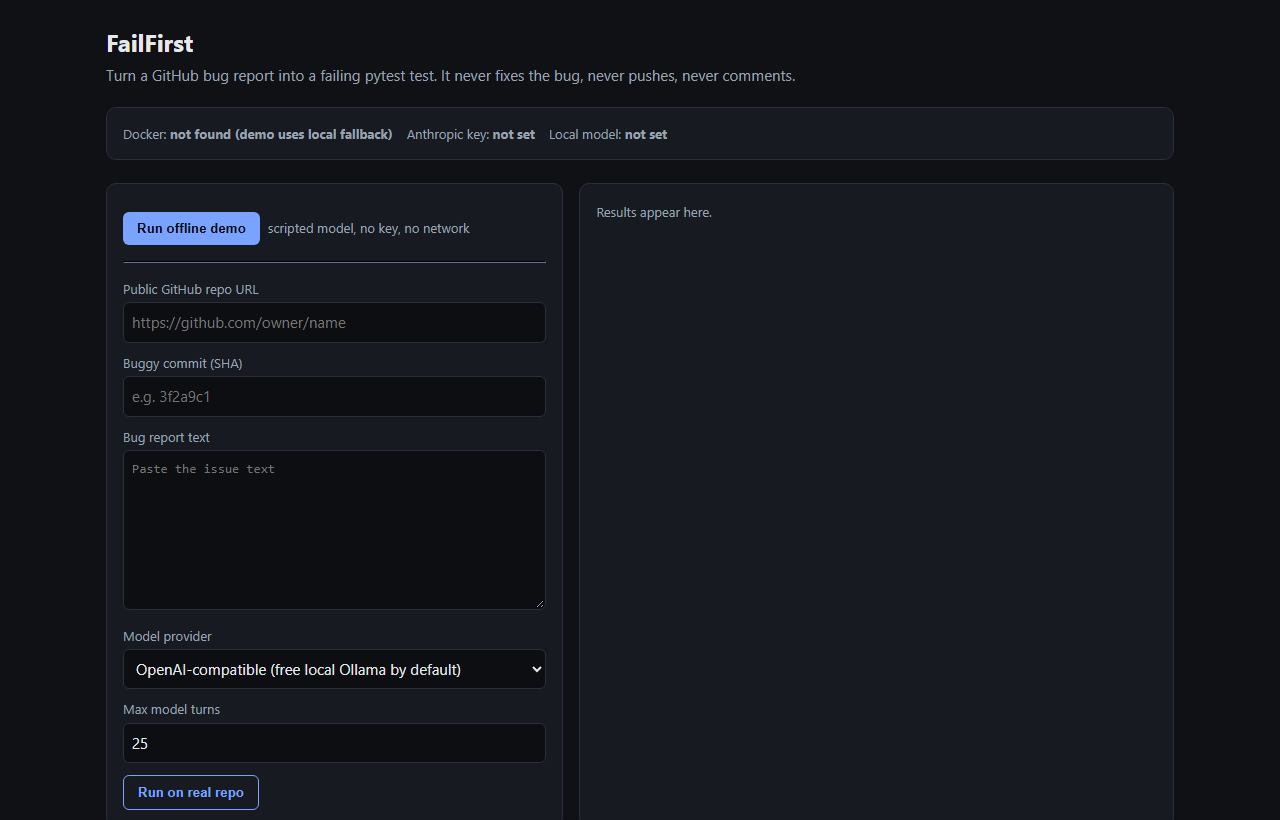
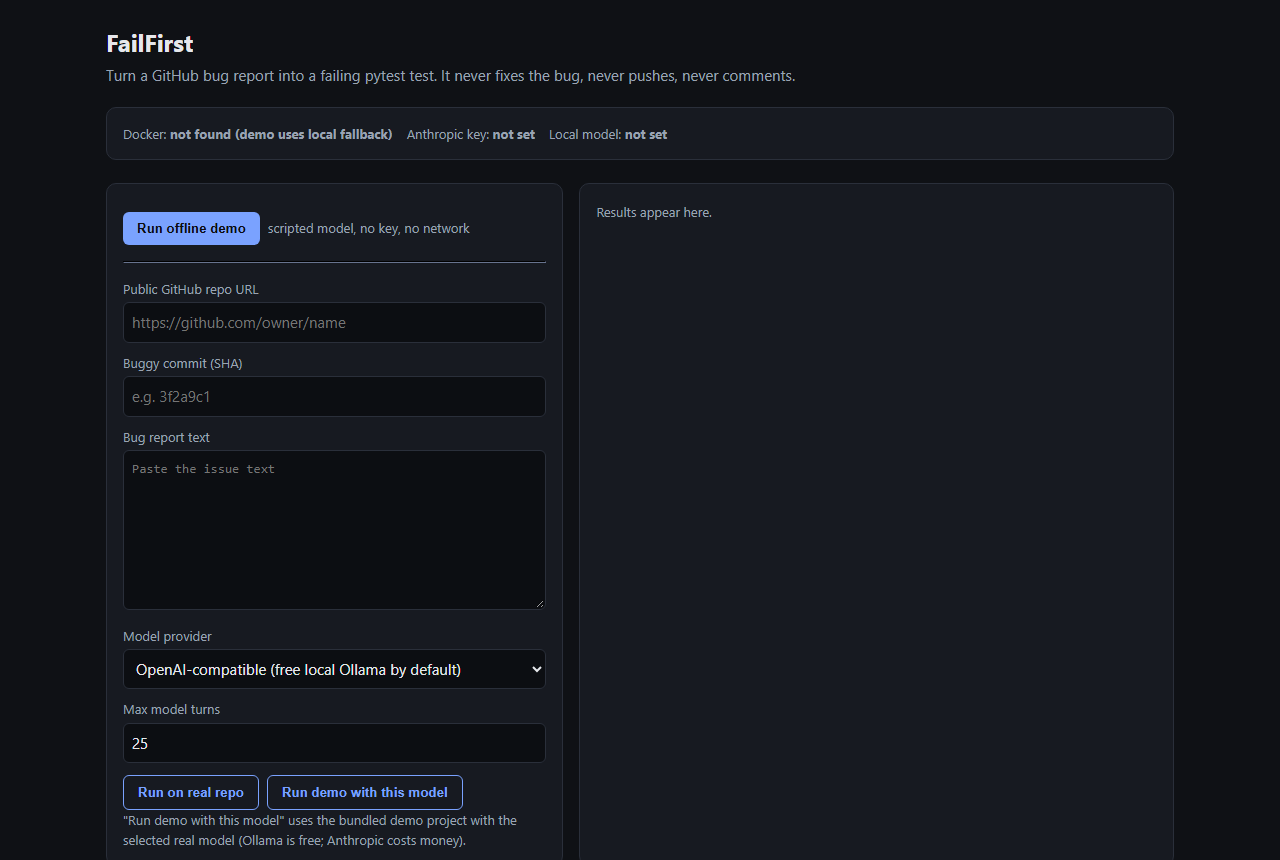
Let the demo run with a real model and clarify provider errors
failfirst demo --provider openai-compatible|anthropic runs the bundled project with a
real model (UI button too). Never leave docker exec waiting on stdin. Clearer hint
when the local model server is not running. Wrap long step-log lines.

diff --git a/failfirst/ui.py b/failfirst/ui.py
@@ -27,7 +27,7 @@ button.alt{background:transparent;color:var(--acc);border:1px solid var(--acc)}b
 .badge{display:inline-block;padding:3px 10px;border-radius:99px;font-weight:700;font-size:13px}
 .REPRODUCED{background:#123d2b;color:var(--ok)}.NOT_REPRODUCED{background:#43181b;color:var(--bad)}.NEEDS_INFO{background:#45391a;color:var(--warn)}
 pre{background:#0c0e12;border:1px solid var(--line);border-radius:6px;padding:10px;overflow:auto;font-size:12.5px;max-height:340px}
-.dim{color:var(--dim);font-size:13px}.status span{margin-right:14px}ol{padding-left:20px}li{margin:4px 0}
+code{word-break:break-all}.dim{color:var(--dim);font-size:13px}.status span{margin-right:14px}ol{padding-left:20px}li{margin:4px 0}
 </style></head><body><main>
 <h1>FailFirst</h1><p class="sub">Turn a GitHub bug report into a failing pytest test. It never fixes the bug, never pushes, never comments.</p>
 <div class="status dim card" id="status">Checking setup...</div><br>
@@ -39,7 +39,8 @@ pre{background:#0c0e12;border:1px solid var(--line);border-radius:6px;padding:10
 <label>Bug report text</label><textarea id="issue" placeholder="Paste the issue text"></textarea>
 <label>Model provider</label><select id="provider"><option value="openai-compatible">OpenAI-compatible (free local Ollama by default)</option><option value="anthropic">Anthropic (paid API)</option></select>
 <label>Max model turns</label><input id="steps" type="number" value="25" min="1" max="100">
-<button id="run" class="alt">Run on real repo</button><div class="dim" id="hint"></div>
+<button id="run" class="alt">Run on real repo</button><button id="demoreal" class="alt">Run demo with this model</button>
+<div class="dim">"Run demo with this model" uses the bundled demo project with the selected real model (Ollama is free; Anthropic costs money).</div>
 </div><div class="card" id="out"><span class="dim">Results appear here.</span></div></div>
 </main><script>
 const $=id=>document.getElementById(id), esc=s=>String(s??"").replace(/[&<>]/g,c=>({"&":"&amp;","<":"&lt;",">":"&gt;"}[c]));
@@ -58,6 +59,7 @@ function show(d){const u=d.usage, steps=d.steps.map(s=>s.type=="model"?`<li clas
  ${d.last_test_run?`<b>Last test run (${esc(d.last_test_run.kind)})</b><pre>${esc(d.last_test_run.output)}</pre>`:""}
  <b>Step log</b><ol>${steps}</ol>`}
 $("demo").onclick=()=>go("/api/demo",{});
+$("demoreal").onclick=()=>go("/api/demo",{provider:$("provider").value});
 if(location.hash=="#demo")$("demo").click();
 $("run").onclick=()=>go("/api/run",{repo:$("repo").value.trim(),commit:$("commit").value.trim(),issue:$("issue").value,provider:$("provider").value,max_steps:+$("steps").value});
 </script></body></html>"""
@@ -105,7 +107,8 @@ def serve(port: int = 8765, out_dir: str = "runs") -> None:
                 return self._send(409, {"error": "a run is already in progress"})
             try:
                 if self.path == "/api/demo":
-                    result = run_demo(out_dir)
+                    provider = make_provider(body["provider"]) if body.get("provider") else None
+                    result = run_demo(out_dir, provider=provider)
                 elif self.path == "/api/run":
                     provider = make_provider(body.get("provider", ""))
                     budget = Budget.from_env(max_steps=int(body.get("max_steps") or 25))

diff --git a/failfirst/agent.py b/failfirst/agent.py
@@ -303,9 +303,10 @@ def run_case(provider, repo_url: str, commit: str, issue_text: str, budget: Budg
     return _finish(sb, meta, result, out_dir, t0, log)
 
 
-def run_demo(out_dir="runs", force_local=False, log=print) -> dict:
-    """The bundled demo with the SCRIPTED provider: no network, no API key."""
-    provider = ScriptedProvider(DEMO_DIR / "script.json")
+def run_demo(out_dir="runs", force_local=False, log=print, provider=None) -> dict:
+    """The bundled demo. Default: the SCRIPTED provider (no network, no key). Pass a provider to try a real model."""
+    scripted = provider is None
+    provider = provider or ScriptedProvider(DEMO_DIR / "script.json")
     issue = (DEMO_DIR / "issue.md").read_text(encoding="utf-8")
     t0 = time.time()
     if not force_local and DockerSandbox.available():
@@ -322,10 +323,13 @@ def run_demo(out_dir="runs", force_local=False, log=print) -> dict:
         log("WARNING: Docker is not available, so the demo runs in LOCAL MODE with NO ISOLATION.")
         log("WARNING: local mode is allowed only for the bundled demo project, never for real repositories.")
         sb, mode = LocalSandbox(DEMO_PROJECT), LocalSandbox.mode
-    log("NOTE: demo mode uses a SCRIPTED model that replays fixed tool calls. It is not a real LLM.")
+    if scripted:
+        log("NOTE: demo mode uses a SCRIPTED model that replays fixed tool calls. It is not a real LLM.")
+    else:
+        log(f"NOTE: demo project with a REAL model: {provider.name} ({provider.model}).")
     meta = {"repo": "demo/shopcart (bundled)", "commit": "working tree", "provider": provider.name,
             "model": provider.model, "sandbox": mode, "issue": issue}
-    result = Agent(provider, sb, Budget(), log).run(issue, "demo/shopcart (bundled demo project)")
+    result = Agent(provider, sb, Budget.from_env(), log).run(issue, "demo/shopcart (bundled demo project)")
     return _finish(sb, meta, result, out_dir, t0, log)
 
 

diff --git a/failfirst/sandbox.py b/failfirst/sandbox.py
@@ -152,7 +152,7 @@ class LocalSandbox(Sandbox):
 
     def exec(self, argv, stdin=None, timeout=60):
         try:
-            p = subprocess.run(argv, input=stdin, cwd=self.repo_root, env=self.env, capture_output=True,
+            p = subprocess.run(argv, input=stdin or "", cwd=self.repo_root, env=self.env, capture_output=True,
                                text=True, encoding="utf-8", errors="replace", timeout=timeout)
             return ExecResult(p.returncode, p.stdout + p.stderr)
         except subprocess.TimeoutExpired:
@@ -188,7 +188,8 @@ class DockerSandbox(Sandbox):
 
     def _docker(self, *args: str, stdin: str | None = None, timeout: int = 120) -> ExecResult:
         try:
-            p = subprocess.run(["docker", *args], input=stdin, capture_output=True, text=True,
+            # Always give stdin (empty if unused) so `docker exec -i` never waits on the parent's stdin.
+            p = subprocess.run(["docker", *args], input=stdin or "", capture_output=True, text=True,
                                encoding="utf-8", errors="replace", timeout=timeout)
             return ExecResult(p.returncode, p.stdout + p.stderr)
         except subprocess.TimeoutExpired:

diff --git a/failfirst/cli.py b/failfirst/cli.py
@@ -40,6 +40,8 @@ def main(argv=None) -> int:
 
     d = sub.add_parser("demo", help="offline demo: bundled project + SCRIPTED model, no key, no network")
     d.add_argument("--no-docker", action="store_true", help="force the local fallback (demo only)")
+    d.add_argument("--provider", choices=["anthropic", "openai-compatible"],
+                   help="use a real model on the demo project instead of the scripted one")
     d.add_argument("--out", default="runs")
 
     u = sub.add_parser("ui", help="local web page on 127.0.0.1 to run the demo or a real case")
@@ -48,7 +50,12 @@ def main(argv=None) -> int:
 
     a = ap.parse_args(argv)
     if a.cmd == "demo":
-        result = run_demo(a.out, force_local=a.no_docker)
+        try:
+            provider = make_provider(a.provider) if a.provider else None
+        except ProviderError as exc:
+            print(f"error: {exc}", file=sys.stderr)
+            return 2
+        result = run_demo(a.out, force_local=a.no_docker, provider=provider)
         print(f"\n{result['verdict']}: {result['explanation']}")
         return 0
     if a.cmd == "ui":

diff --git a/failfirst/providers.py b/failfirst/providers.py
@@ -128,7 +128,9 @@ class OpenAICompatibleProvider:
                 model=self.model, messages=msgs, max_tokens=max_tokens,
                 tools=[{"type": "function", "function": t} for t in tools])
         except Exception as exc:  # the openai package has many error types; report them all the same way
-            raise ProviderError(f"{self.base_url}: {type(exc).__name__}: {str(exc)[:300]}") from exc
+            hint = " (is the server running? For Ollama: start the Ollama app or run `ollama serve`)" \
+                if type(exc).__name__ == "APIConnectionError" else ""
+            raise ProviderError(f"{self.base_url}: {type(exc).__name__}: {str(exc)[:300]}{hint}") from exc
         choice = resp.choices[0]
         calls = []
         for i, tc in enumerate(choice.message.tool_calls or []):

diff --git a/README.md b/README.md
@@ -55,7 +55,9 @@ failfirst demo
 
 If Docker is running, the demo uses the Docker sandbox. The first time, Docker downloads `python:3.11-slim` and builds a small image, so that one step needs the network. Without Docker, the demo falls back to a **local subprocess mode with no isolation**, prints a warning, and refuses to run any project except the bundled demo. Use `failfirst demo --no-docker` to force the fallback.
 
-Output from a real run on Windows without Docker (lines shortened):
+To try a **real model** on the same demo project, set one up as in [Run on a real bug](#run-on-a-real-bug) step 2, then run `failfirst demo --provider openai-compatible` (free with Ollama) or `failfirst demo --provider anthropic` (costs money). The web page has a matching **Run demo with this model** button.
+
+Output from a real run of the scripted demo on Windows without Docker (lines shortened):
 
 ```text
 WARNING: Docker is not available, so the demo runs in LOCAL MODE with NO ISOLATION.
